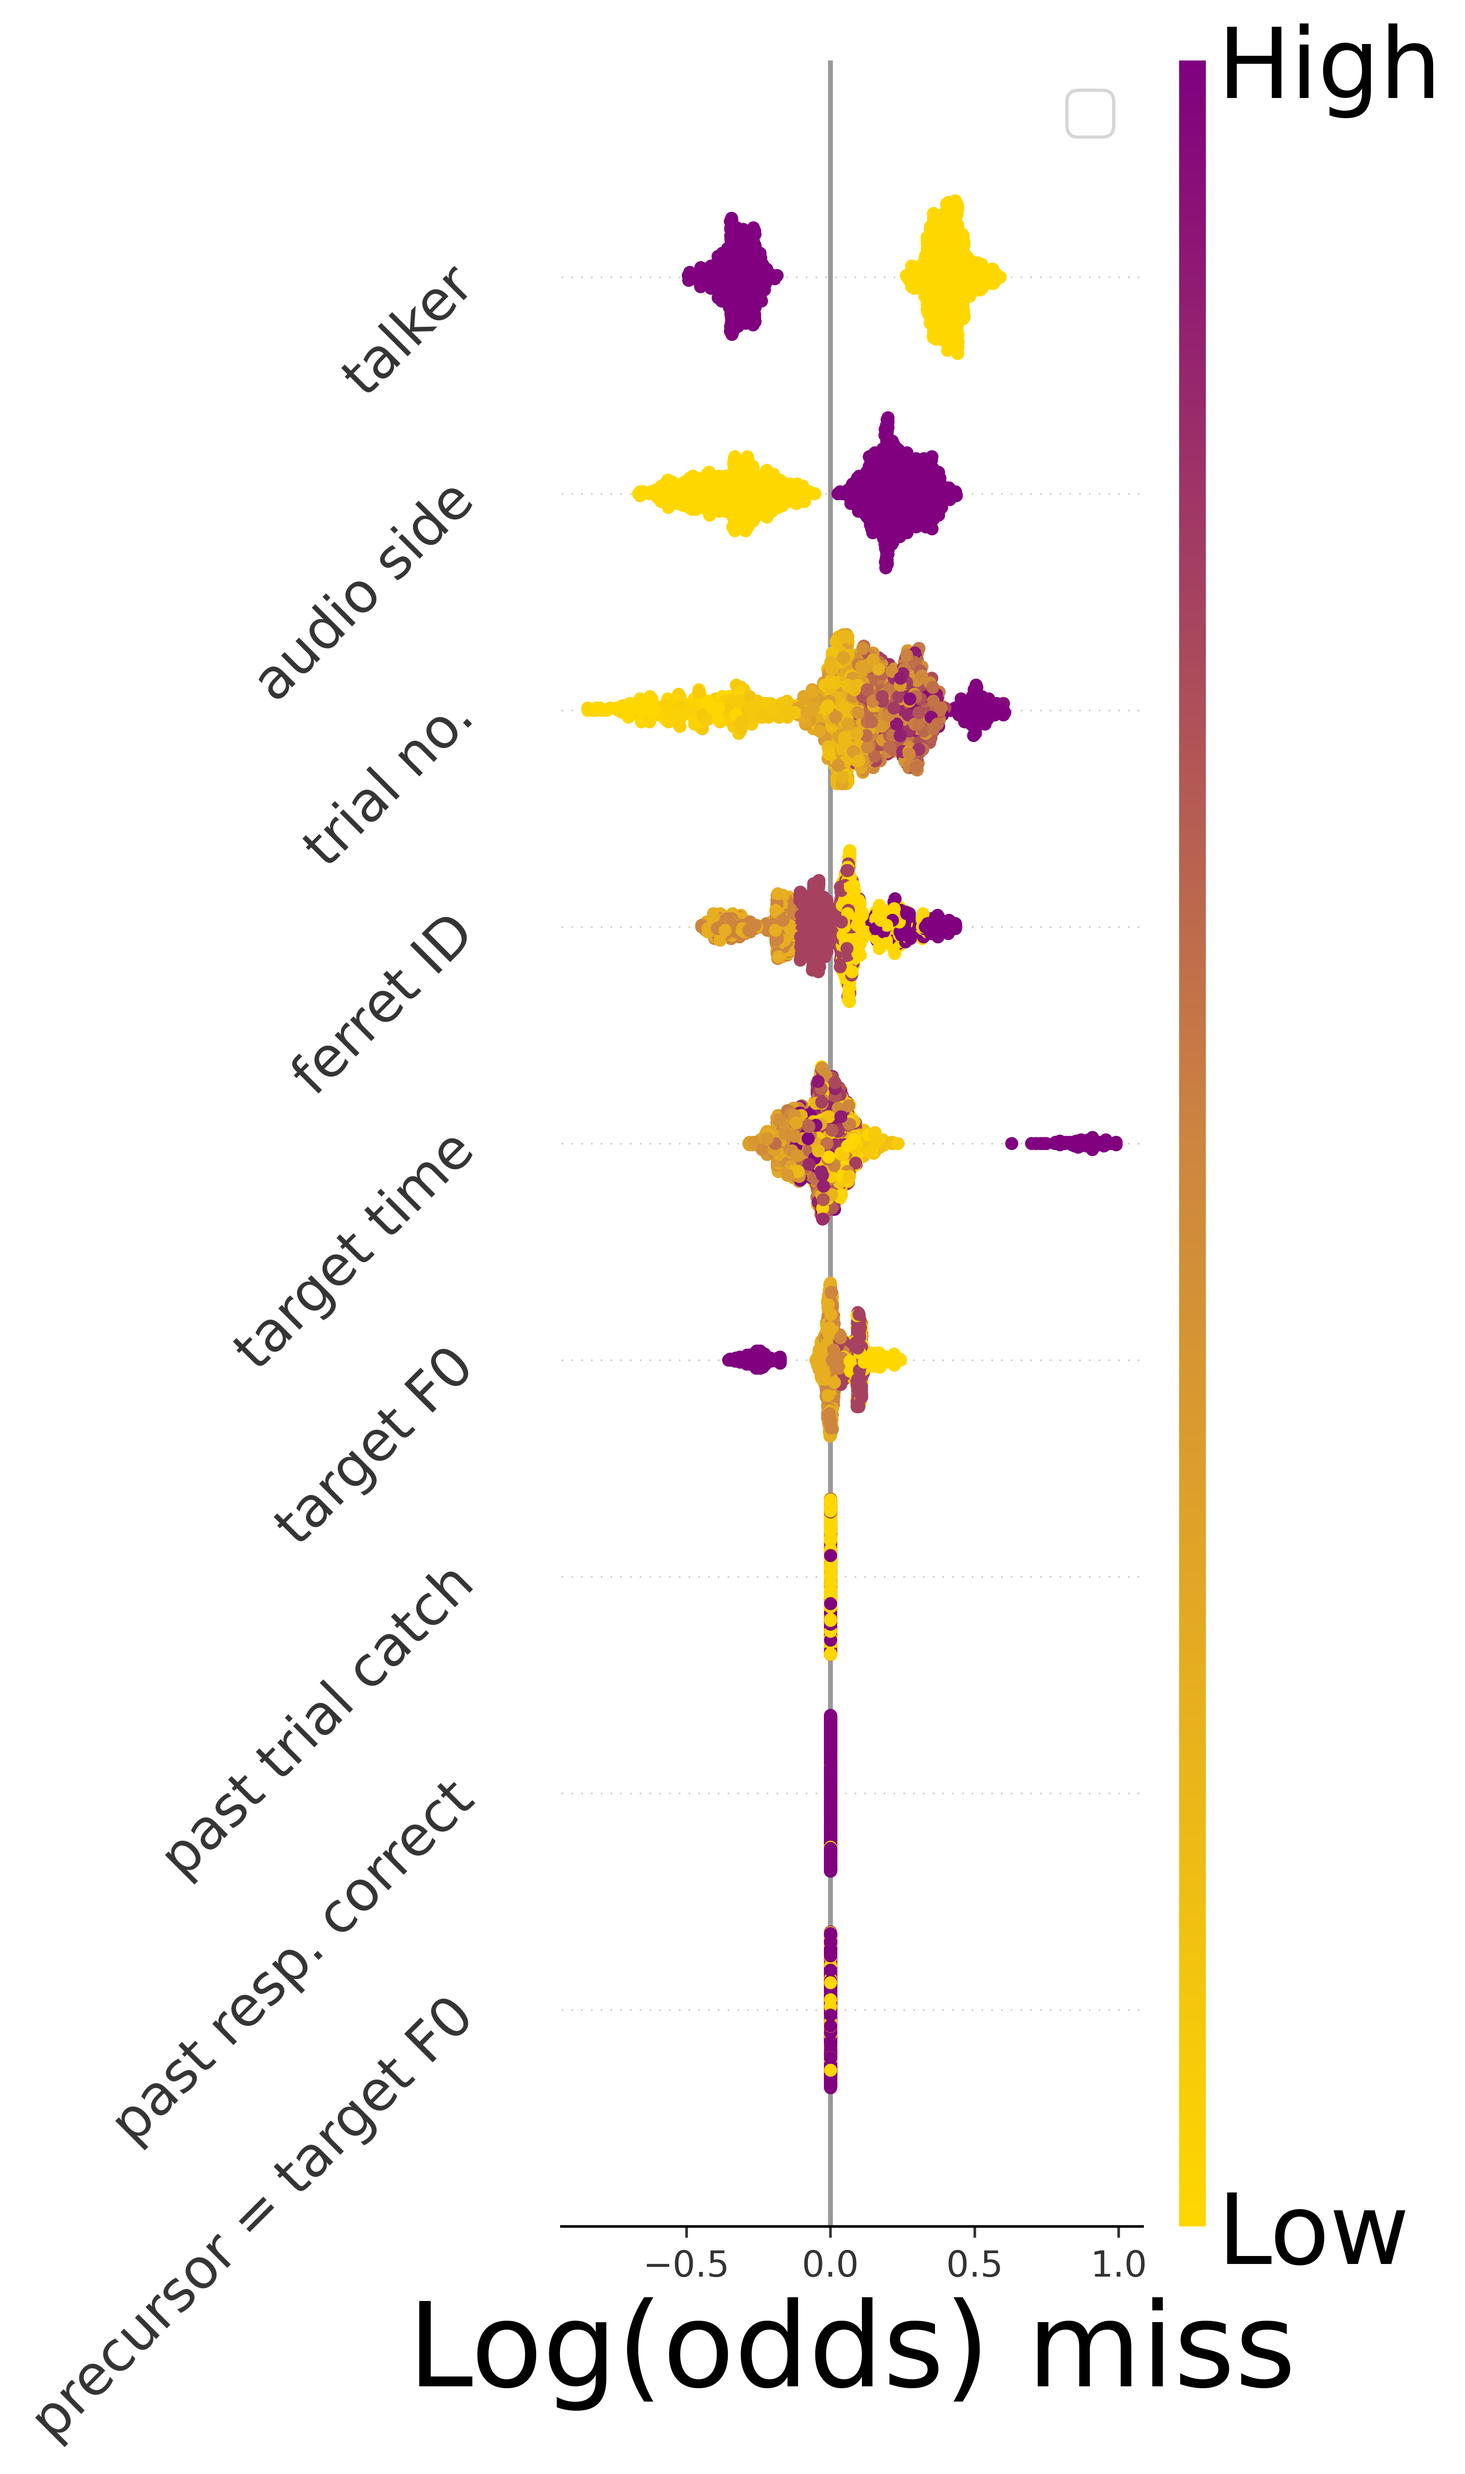
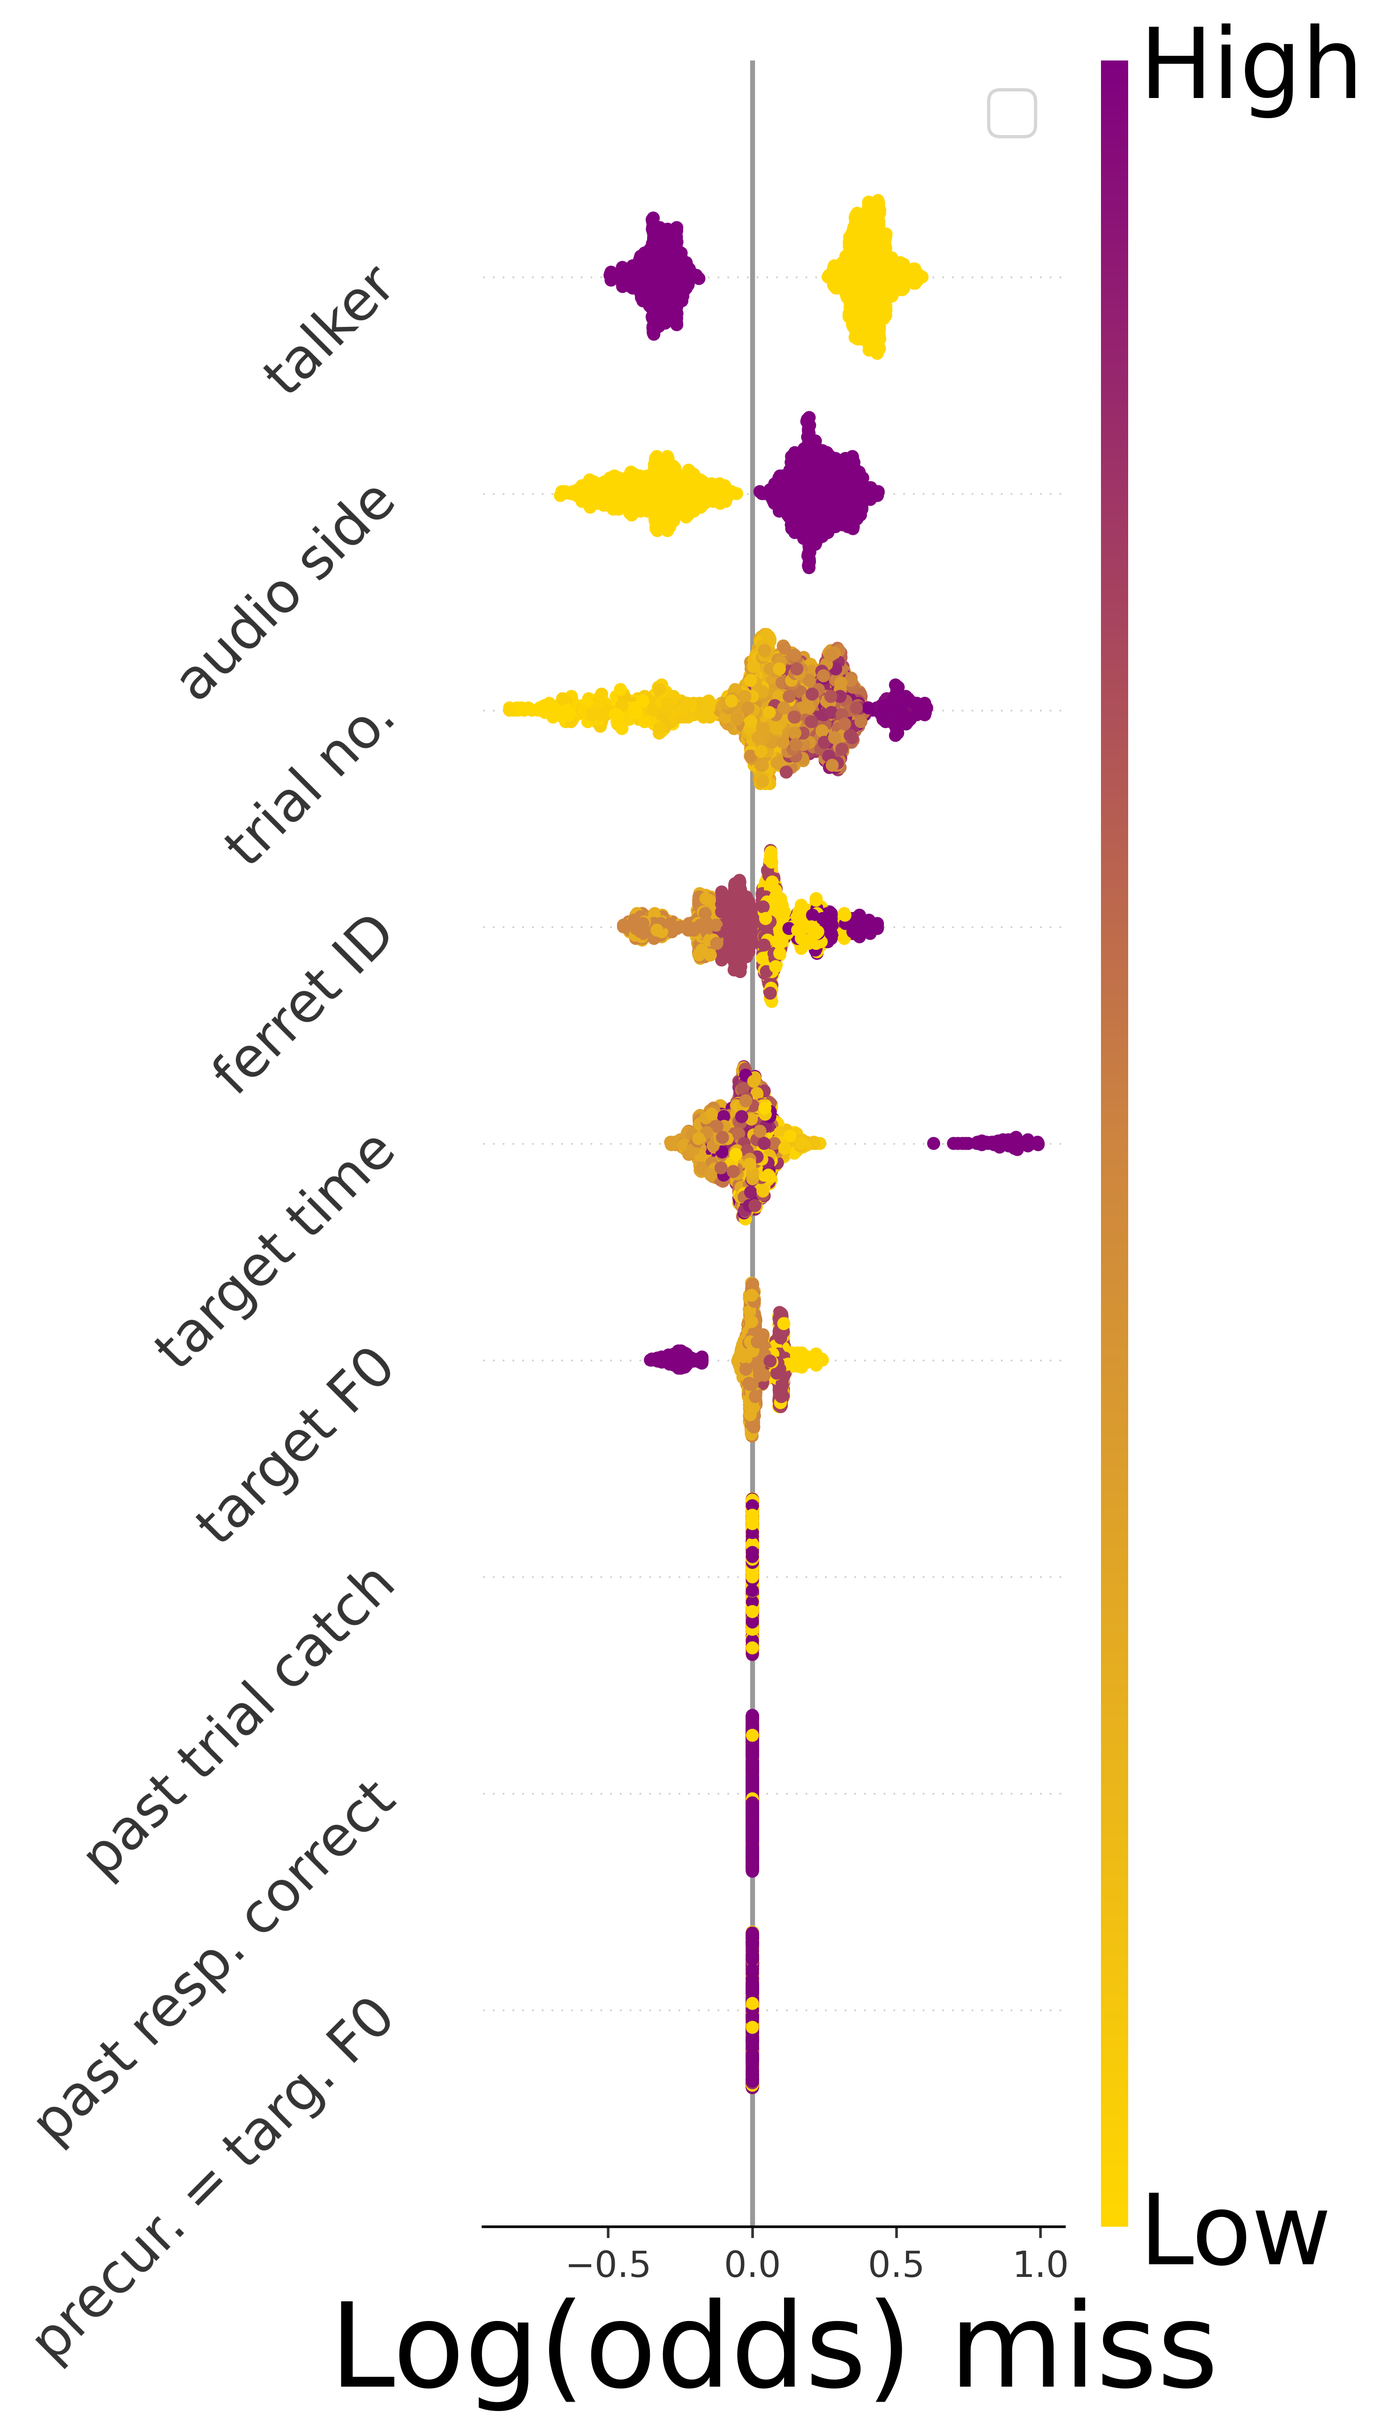
trying to add beeswarm/summary plot directly

diff --git a/models/correctrespmissmodel.py b/models/correctrespmissmodel.py
@@ -266,7 +266,7 @@ def runlgbcorrectrespornotwithoptuna(dataframe, paramsinput=None, optimization =
                            "targTimes","pastcorrectresp",
                            "pastcatchtrial", "pitchoftarg"]]
         #
-        labels = ['trial no.','misslist', 'talker', 'audio side', "precur.= targ. F0",'target time', 'past resp. correct', 'past trial catch', 'target F0']
+        labels = ['trial no.','misslist', 'talker', 'audio side', "precur. = targ. F0",'target time', 'past resp. correct', 'past trial catch', 'target F0']
         df_to_use = df_to_use.rename(columns=dict(zip(df_to_use.columns, labels)))
 
         fig_dir = Path('D:/behavmodelfigs/correctresp_or_miss/')
@@ -393,12 +393,12 @@ def runlgbcorrectrespornotwithoptuna(dataframe, paramsinput=None, optimization =
     plt.show()
 
 
-    shap.plots.scatter(shap_values2[:, "talker"], color=shap_values2[:, "precur.= targ. F0"], cmap=cmapcustom, show=True)
+    shap.plots.scatter(shap_values2[:, "talker"], color=shap_values2[:, "precur. = targ. F0"], cmap=cmapcustom, show=True)
     shap.plots.scatter(shap_values2[:, "audio side"], color=shap_values2[:, "ferret ID"], cmap=cmapcustom, show=True)
-    shap.plots.scatter(shap_values2[:,  "trial no."], color=shap_values2[:, "precur.= targ. F0"], cmap=cmapcustom, show=True)
+    shap.plots.scatter(shap_values2[:,  "trial no."], color=shap_values2[:, "precur. = targ. F0"], cmap=cmapcustom, show=True)
     shap.plots.scatter(shap_values2[:, "target time"], color=shap_values2[:, "ferret ID"], cmap=cmapcustom, show=True)
 
-    shap.plots.scatter(shap_values2[:, "target F0"], color=shap_values2[:, "precur.= targ. F0"], cmap=cmapcustom, show=True)
+    shap.plots.scatter(shap_values2[:, "target F0"], color=shap_values2[:, "precur. = targ. F0"], cmap=cmapcustom, show=True)
 
 
     fig, ax = plt.subplots()
@@ -495,29 +495,41 @@ def runlgbcorrectrespornotwithoptuna(dataframe, paramsinput=None, optimization =
     plt.show()
 
 
-    text_width_pt = 419.67816  # Replace with your value
+    text_width_pt = 419.67816
+    # Replace with your value
 
     # Convert the text width from points to inches
     text_width_inches = text_width_pt / 72.27
 
-    mosaic = ['A', 'B'], ['D', 'B'], ['C', 'E']
+    # mosaic = ['A', 'B'], ['D', 'B'], ['C', 'E']
+    mosaic = ['A', 'B', 'C'], ['D', 'B', 'E']
+
+    ferret_id_only = ['F1702', 'F1815', 'F1803', 'F2002', 'F2105']
+
+    # # fig = plt.figure(figsize=(20, 10))
+    # figsize = (text_width_inches*(1/4), text_width_inches)
+    # gridspec_kw = {'width_ratios': [1, 1], 'height_ratios': [3, 3, 3]}
+    #
+    # # Create the figure with subplots
+    # plt.rcParams['font.family'] = 'sans-serif'
+    #
+    # # fig, ax_dict = plt.subplot_mosaic(mosaic, figsize=figsize, gridspec_kw=gridspec_kw)
+    # fig, ax_dict = plt.subplot_mosaic(mosaic, figsize = (4,10))
+
+    mosaic = ['A', 'B', 'C'], ['D', 'B', 'E']
     ferret_id_only = ['F1702', 'F1815', 'F1803', 'F2002', 'F2105']
 
     # fig = plt.figure(figsize=(20, 10))
-    figsize = (text_width_inches * 6, text_width_inches * 8)
-    gridspec_kw = {'width_ratios': [1, 1], 'height_ratios': [1, 1, 1]}
+    fig = plt.figure(figsize=(text_width_inches * 4, (text_width_inches / 2) * 4))
 
-    # Create the figure with subplots
-    fig, ax_dict = plt.subplot_mosaic(mosaic, figsize=figsize, gridspec_kw=gridspec_kw)
-
-
+    ax_dict = fig.subplot_mosaic(mosaic)
 
     # Plot the elbow plot
     ax_dict['A'].plot(feature_labels, cumulative_importances, marker='o', color='gold')
     # ax_dict['A'].set_xlabel('Features')
-    ax_dict['A'].set_ylabel('Cumulative Feature Importance', fontsize = 18)
+    ax_dict['A'].set_ylabel('Cumulative Feature Importance', fontsize = 18, fontfamily='sans-serif')
     # ax_dict['A'].set_title('Elbow plot for miss vs hit', fontsize=13)
-    ax_dict['A'].set_xticklabels(feature_labels, rotation=20, ha='right')  # rotate x-axis labels for better readability
+    ax_dict['A'].set_xticklabels(feature_labels, rotation=20, ha='right', fontfamily='sans-serif')  # rotate x-axis labels for better readability
 
     # rotate x-axis labels for better readability
     # summary_img = mpimg.imread(summary_plot_file)
@@ -526,18 +538,18 @@ def runlgbcorrectrespornotwithoptuna(dataframe, paramsinput=None, optimization =
     # ax_dict['B'].set_title('Miss vs hit', fontsize=13)
     axmini = ax_dict['B']
     shap_summary_plot(shap_values2, feature_labels, show_plots=False, ax=axmini, cmap=cmapcustom)
-    ax_dict['B'].set_yticklabels(np.flip(feature_labels), fontsize=12, rotation=45)
+    ax_dict['B'].set_yticklabels(np.flip(feature_labels), fontsize=12, rotation=45, fontfamily='sans-serif')
     ax_dict['B'].set_xlabel('Log(odds) miss', fontsize=12)
+    ax_dict['B'].set_xticks([-1, -0.5, 0, 0.5, 1])
     cb_ax = fig.axes[5]
     cb_ax.tick_params(labelsize=8)
-    cb_ax.set_ylabel('Value', fontsize=8)
+    cb_ax.set_ylabel('Value', fontsize=8, fontfamily='sans-serif')
 
 
 
     ax_dict['D'].barh(X_test.columns[sorted_idx], result.importances[sorted_idx].mean(axis=1).T, color='peru')
     # ax_dict['D'].set_title("Permutation importances on predicting a miss")
-    ax_dict['D'].set_xlabel("Permutation importance", fontsize=18)
-    plt.rcParams['font.family'] = 'sans-serif'
+    ax_dict['D'].set_xlabel("Permutation importance", fontsize=18, fontfamily='sans-serif')
 
     shap.plots.scatter(shap_values2[:, "talker"], color=shap_values2[:, "target F0"], ax=ax_dict['E'],
                        cmap=cmapcustom, show=False)
@@ -546,11 +558,11 @@ def runlgbcorrectrespornotwithoptuna(dataframe, paramsinput=None, optimization =
     # # Modifying color bar parameters
     # cb_ax.tick_params(labelsize=15)
     # cb_ax.set_ylabel("precursor = target F0 word", fontsize=15)
-    ax_dict['E'].set_ylabel('Log(odds) miss', fontsize=18)
+    ax_dict['E'].set_ylabel('Log(odds) miss', fontsize=18, fontfamily='sans-serif')
     # ax_dict['E'].set_title('Talker versus impact on miss probability', fontsize=18)
     cb_ax.set_yticks([1, 2, 3,4, 5])
     cb_ax.set_yticklabels(['109', '124', '144', '191', '251'])
-    cb_ax.set_ylabel("target F0 (Hz)", fontsize=8)
+    cb_ax.set_ylabel("target F0 (Hz)", fontsize=8,fontfamily='sans-serif')
     cb_ax.tick_params(labelsize=8)
     # ax_dict['E'].set_xlabel('Talker', fontsize=16)
     ax_dict['E'].set_xlabel('')
@@ -601,21 +613,24 @@ def runlgbcorrectrespornotwithoptuna(dataframe, paramsinput=None, optimization =
     #     ax.tick_params(axis='both', which='minor', labelsize=8)
     for key, ax in ax_dict.items():
         if key == 'B':
-            ax.yaxis.label.set_size(4)
-            ax.xaxis.label.set_size(8)
-            ax.tick_params(axis='y', which='major', labelsize=7)
-            ax.tick_params(axis='x', which='major', labelsize=8)
-            ax.tick_params(axis='y', which='minor', labelsize=7)
-
-            ax.tick_params(axis='x', which='minor', labelsize=8)
-
-        else:
-            ax.tick_params(axis='both', which='major', labelsize=8)
-            ax.tick_params(axis='both', which='minor', labelsize=8)
+            ax.tick_params(axis='y', which='major', labelsize=5.7)
+            ax.tick_params(axis='x', which='major', labelsize=6)
+            ax.tick_params(axis='both', which='minor', labelsize=6)
             ax.xaxis.label.set_size(8)
             ax.yaxis.label.set_size(8)
 
-    plt.subplots_adjust(wspace=0.4, hspace=0.6)
+        else:
+
+            ax.tick_params(axis='y', which='major', labelsize=6)
+            ax.tick_params(axis='x', which='major', labelsize=6)
+            ax.tick_params(axis='both', which='minor', labelsize=6)
+            ax.xaxis.label.set_size(8)
+            ax.yaxis.label.set_size(8)
+        for text in [ax.xaxis.label, ax.yaxis.label] + ax.get_xticklabels() + ax.get_yticklabels():
+            text.set_fontfamily('sans-serif')
+            text.set_color('black')
+
+    plt.subplots_adjust(wspace=0.6, hspace=0.3)
     # plt.tight_layout()
 
     # plt.tight_layout()
@@ -625,11 +640,11 @@ def runlgbcorrectrespornotwithoptuna(dataframe, paramsinput=None, optimization =
     plt.show()
     # Plot the scatter plot for trial number and precursor pitch
     fig, ax = plt.subplots()
-    shap.plots.scatter(shap_values2[:,  "trial no."], color=shap_values2[:, "precur.= targ. F0"],
+    shap.plots.scatter(shap_values2[:,  "trial no."], color=shap_values2[:, "precur. = targ. F0"],
                        ax=ax, cmap=cmapcustom, show=False)
     cb_ax = fig.axes[1]
     cb_ax.tick_params(labelsize=15)
-    cb_ax.set_ylabel("precur.= targ. F0", fontsize=14)
+    cb_ax.set_ylabel("precur. = targ. F0", fontsize=14)
     cb_ax.set_yticks([0.25, 0.75])
     cb_ax.set_yticklabels(['True', 'False'])
     plt.title('Trial number', fontsize=18)
@@ -640,7 +655,7 @@ def runlgbcorrectrespornotwithoptuna(dataframe, paramsinput=None, optimization =
 
     # Plot the scatter plot for side of audio presentation and precursor pitch
     fig, ax = plt.subplots(figsize=(10, 10))
-    shap.plots.scatter(shap_values2[:, "audio side"], color=shap_values2[:, "precur.= targ. F0"],
+    shap.plots.scatter(shap_values2[:, "audio side"], color=shap_values2[:, "precur. = targ. F0"],
                        ax=ax, cmap=cmapcustom, show=False)
     cb_ax = fig.axes[1]
     cb_ax.tick_params(labelsize=15)
@@ -654,14 +669,14 @@ def runlgbcorrectrespornotwithoptuna(dataframe, paramsinput=None, optimization =
 
 
     fig, ax = plt.subplots()
-    shap.plots.scatter(shap_values2[:,  "trial no."], color=shap_values2[:, "precur.= targ. F0"], ax=ax, cmap = cmapcustom, show = False)
+    shap.plots.scatter(shap_values2[:,  "trial no."], color=shap_values2[:, "precur. = targ. F0"], ax=ax, cmap = cmapcustom, show = False)
     fig, ax = plt.gcf(), plt.gca()
     cb_ax = fig.axes[1]
     # Modifying color bar parameters
     cb_ax.tick_params(labelsize=15)
     # cb_ax.set_yticks([1, 2, 3,4, 5])
     # cb_ax.set_yticklabels(['109', '124', '144', '191', '251'])
-    cb_ax.set_ylabel("precur.= targ. F0", fontsize=15)
+    cb_ax.set_ylabel("precur. = targ. F0", fontsize=15)
     plt.title('Trial number and its effect on the \n miss probability', fontsize = 18)
     plt.xlabel('Trial number', fontsize = 15)
     plt.ylabel('SHAP value', fontsize = 15)
@@ -669,7 +684,7 @@ def runlgbcorrectrespornotwithoptuna(dataframe, paramsinput=None, optimization =
     plt.show()
 
     fig, ax = plt.subplots(figsize=(10, 10))
-    shap.plots.scatter(shap_values2[:, "audio side"], color=shap_values2[:, "precur.= targ. F0"], ax=ax, cmap = cmapcustom, show = False)
+    shap.plots.scatter(shap_values2[:, "audio side"], color=shap_values2[:, "precur. = targ. F0"], ax=ax, cmap = cmapcustom, show = False)
     fig, ax = plt.gcf(), plt.gca()
     cb_ax = fig.axes[1]
     # Modifying color bar parameters
@@ -686,7 +701,7 @@ def runlgbcorrectrespornotwithoptuna(dataframe, paramsinput=None, optimization =
 
 
     fig, ax = plt.subplots(figsize=(10, 10))
-    shap.plots.scatter(shap_values2[:, "precur.= targ. F0"], color=shap_values2[:,  "trial no."], ax=ax, cmap = cmapcustom, show = False)
+    shap.plots.scatter(shap_values2[:, "precur. = targ. F0"], color=shap_values2[:,  "trial no."], ax=ax, cmap = cmapcustom, show = False)
     fig, ax = plt.gcf(), plt.gca()
     cb_ax = fig.axes[1]
     # Modifying color bar parameters
@@ -701,7 +716,7 @@ def runlgbcorrectrespornotwithoptuna(dataframe, paramsinput=None, optimization =
     # plt.savefig(fig_dir / 'precursortargpitchintrialnumber.png', dpi=1000, bbox_inches = "tight")
     plt.show()
     #
-    # shap.plots.scatter(shap_values2[:, "pitch of target"], color=shap_values2[:, "precur.= targ. F0"], show=False, cmap = cmapcustom)
+    # shap.plots.scatter(shap_values2[:, "pitch of target"], color=shap_values2[:, "precur. = targ. F0"], show=False, cmap = cmapcustom)
     # fig, ax = plt.gcf(), plt.gca()
     # # Get colorbar
     # cb_ax = fig.axes[1]
@@ -709,7 +724,7 @@ def runlgbcorrectrespornotwithoptuna(dataframe, paramsinput=None, optimization =
     # cb_ax.tick_params(labelsize=15)
     # cb_ax.set_yticks([1, 2, 3,4, 5])
     # # cb_ax.set_yticklabels(['109', '124', '144', '191', '251'])
-    # cb_ax.set_ylabel("precur.= targ. F0", fontsize=12)
+    # cb_ax.set_ylabel("precur. = targ. F0", fontsize=12)
     # # cb_ax.set_yticklabels( ['109 Hz', '124 Hz', '144 Hz', '191 Hz', '251 Hz'], fontsize=15)
     # plt.ylabel('SHAP value', fontsize=10)
     # plt.title('Pitch of target \n versus impact in miss probability', fontsize=18)
@@ -719,7 +734,7 @@ def runlgbcorrectrespornotwithoptuna(dataframe, paramsinput=None, optimization =
     # plt.show()
 
 
-    shap.plots.scatter(shap_values2[:, "precur.= targ. F0"], color=shap_values2[:, "talker"])
+    shap.plots.scatter(shap_values2[:, "precur. = targ. F0"], color=shap_values2[:, "talker"])
     plt.show()
     shap.plots.scatter(shap_values2[:,  "trial no."], color=shap_values2[:, "talker"], show=False)
     plt.title('trial number \n vs. SHAP value impact')
@@ -746,7 +761,7 @@ def runlgbcorrectrespornotwithoptuna(dataframe, paramsinput=None, optimization =
     plt.show()
 
     fig, ax = plt.subplots(figsize=(15, 55))
-    shap.plots.scatter(shap_values2[:, "precur.= targ. F0"], color=shap_values2[:,  "trial no."], show=False)
+    shap.plots.scatter(shap_values2[:, "precur. = targ. F0"], color=shap_values2[:,  "trial no."], show=False)
     plt.title('SHAP values as a function of the pitch of the target, \n coloured by the target presentation time',
               fontsize=18)
     plt.ylabel('SHAP value', fontsize=18)
